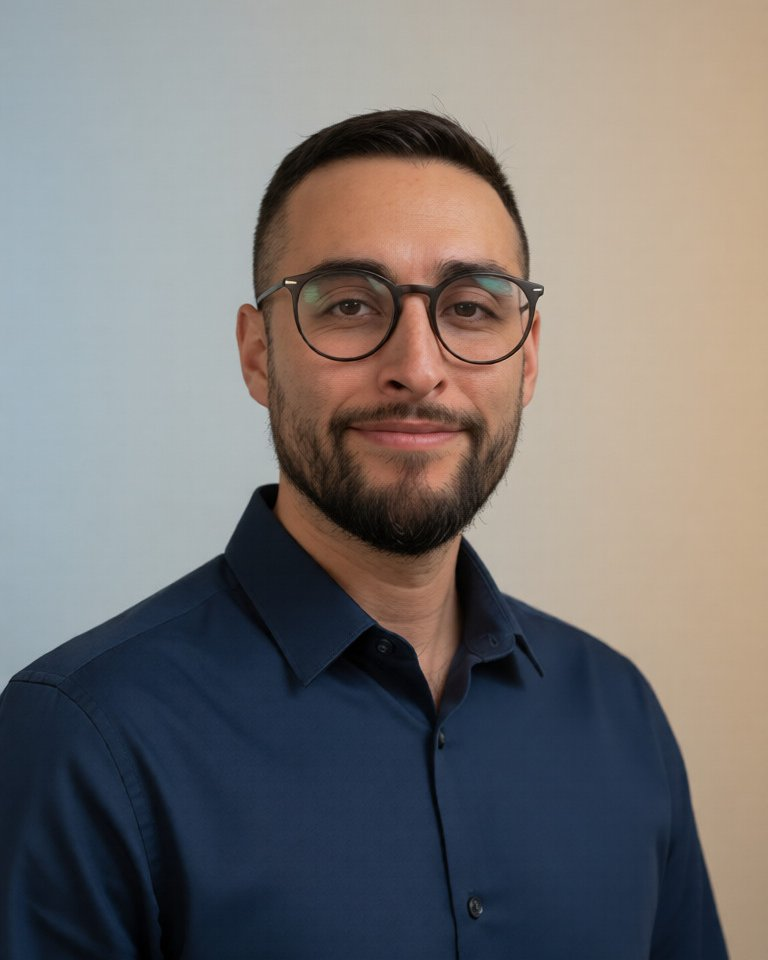
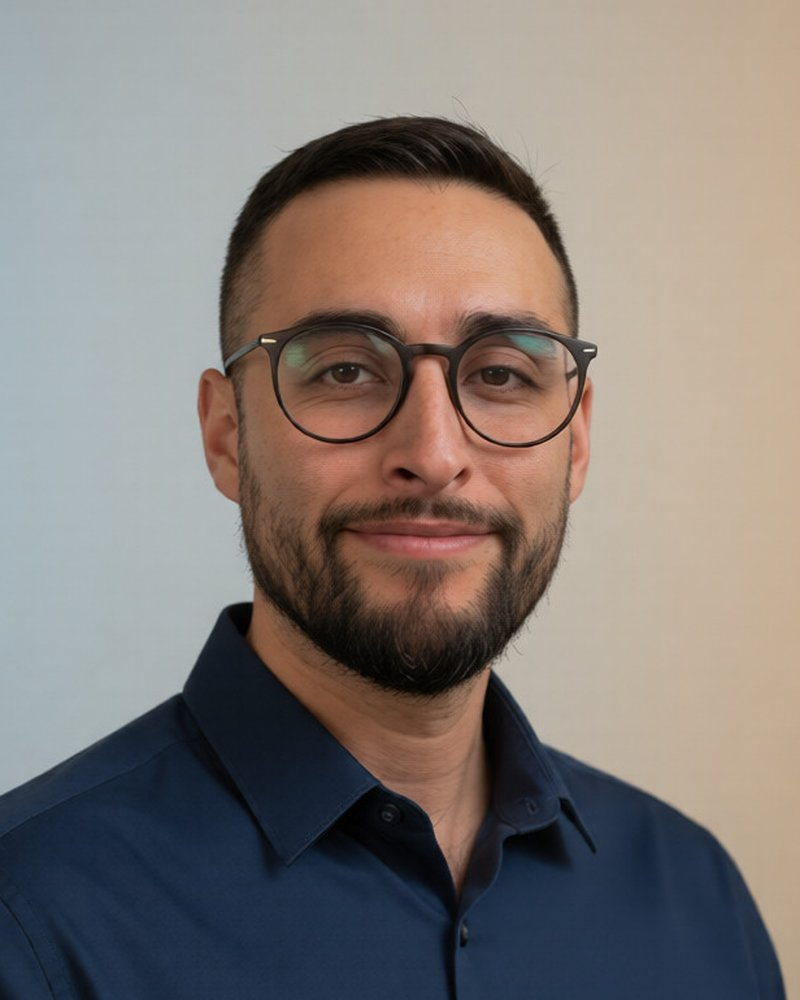
Add photos to About page and homepage
About: professional headshot replaces the old profile photo at the top. The close-up in the suit and bow tie now sits next to “Why I do this work.”
Homepage: new “Hi, I’m David” section with the armchair photo and a “More about me” button.
All photos cropped to a matching portrait shape and compressed for the web.
Sized for each screen: beside the text on iPad and desktop, centered and smaller on phones.
Stylesheet version updated so browsers load the new styles.
Spanish pages (es/) rebuilt with build_es.py.

diff --git a/es/about.html b/es/about.html
@@ -21,7 +21,7 @@
             document.documentElement.setAttribute('data-theme', t);
         })();
     </script>
-    <link rel="stylesheet" href="../styles.css?v=20261021q">
+    <link rel="stylesheet" href="../styles.css?v=20261021r">
     <link rel="icon" href="../favicon.ico" sizes="any">
     <link rel="icon" type="image/png" sizes="32x32" href="../favicon-32x32.png">
     <link rel="icon" type="image/png" sizes="16x16" href="../favicon-16x16.png">
@@ -161,7 +161,7 @@
 <main class="section container">
 
     <div class="profile-card" style="margin-bottom: 3rem;">
-        <img src="../david-quintana-professional.jpg" alt="David Quintana, Notary Public, in a navy button-up shirt" class="profile-img" width="768" height="960">
+        <img src="../david-quintana-professional.jpg" alt="David Quintana, Notary Public, in a navy button-up shirt" class="profile-img" width="800" height="1000">
         
         <div class="profile-details">
             <h3 id="profile-title-es" style="text-align: left;">David Quintana</h3>

diff --git a/styles.css b/styles.css
@@ -2018,3 +2018,11 @@ html[data-theme="dark"] .shop-map .sm-road { fill: #0b0f16; }
 .mission-photo { width: 100%; max-width: 320px; aspect-ratio: 1 / 1; object-fit: cover; object-position: 50% 25%; border-radius: var(--r-lg); align-self: center; }
 .mission-text { min-width: 0; flex: 1 1 auto; }
 @media (min-width: 700px) { .mission-with-photo { flex-direction: row; align-items: flex-start; } .mission-photo { width: 240px; flex: 0 0 240px; aspect-ratio: 4 / 5; align-self: flex-start; } }
+
+/* Photos on phones: a centered portrait, not a full-width block */
+@media (max-width: 699px) {
+  .profile-img, .meet-david-img { width: min(240px, 68%); flex: 0 0 auto; aspect-ratio: 4 / 5; max-height: none; height: auto; align-self: center; margin: var(--space-5) auto 0; border-radius: var(--r-lg); object-position: 50% 35%; }
+  .meet-david-img { object-position: 50% 50%; }
+  .mission-photo { width: min(220px, 64%); aspect-ratio: 4 / 5; object-position: 50% 30%; }
+  .meet-david-text { padding: 0 var(--space-5) var(--space-5); }
+}

diff --git a/about.html b/about.html
@@ -36,7 +36,7 @@
             document.documentElement.setAttribute('data-theme', t);
         })();
     </script>
-    <link rel="stylesheet" href="styles.css?v=20261021q">
+    <link rel="stylesheet" href="styles.css?v=20261021r">
     <link rel="icon" href="favicon.ico" sizes="any">
     <link rel="icon" type="image/png" sizes="32x32" href="favicon-32x32.png">
     <link rel="icon" type="image/png" sizes="16x16" href="favicon-16x16.png">
@@ -176,7 +176,7 @@
 <main class="section container">
 
     <div class="profile-card" style="margin-bottom: 3rem;">
-        <img src="david-quintana-professional.jpg" alt="David Quintana, Notary Public, in a navy button-up shirt" class="profile-img" width="768" height="960">
+        <img src="david-quintana-professional.jpg" alt="David Quintana, Notary Public, in a navy button-up shirt" class="profile-img" width="800" height="1000">
         
         <div class="profile-details">
             <h3 id="profile-title-es" style="display:none; text-align: left;">David Quintana</h3>

diff --git a/es/apostille.html b/es/apostille.html
@@ -162,7 +162,7 @@
             document.documentElement.setAttribute('data-theme', t);
         })();
     </script>
-    <link rel="stylesheet" href="../styles.css?v=20261021q">
+    <link rel="stylesheet" href="../styles.css?v=20261021r">
     <link rel="icon" href="../favicon.ico" sizes="any">
     <link rel="icon" type="image/png" sizes="32x32" href="../favicon-32x32.png">
     <link rel="icon" type="image/png" sizes="16x16" href="../favicon-16x16.png">

diff --git a/es/certified-copies.html b/es/certified-copies.html
@@ -168,7 +168,7 @@
             document.documentElement.setAttribute('data-theme', t);
         })();
     </script>
-    <link rel="stylesheet" href="../styles.css?v=20261021q">
+    <link rel="stylesheet" href="../styles.css?v=20261021r">
     <link rel="icon" href="../favicon.ico" sizes="any">
     <link rel="icon" type="image/png" sizes="32x32" href="../favicon-32x32.png">
     <link rel="icon" type="image/png" sizes="16x16" href="../favicon-16x16.png">

diff --git a/es/immigration-attorney-notary-aurora-ice.html b/es/immigration-attorney-notary-aurora-ice.html
@@ -189,7 +189,7 @@
             document.documentElement.setAttribute('data-theme', t);
         })();
     </script>
-    <link rel="stylesheet" href="../styles.css?v=20261021q">
+    <link rel="stylesheet" href="../styles.css?v=20261021r">
     <link rel="icon" href="../favicon.ico" sizes="any">
     <link rel="icon" type="image/png" sizes="32x32" href="../favicon-32x32.png">
     <link rel="icon" type="image/png" sizes="16x16" href="../favicon-16x16.png">

diff --git a/es/airport-notarizations.html b/es/airport-notarizations.html
@@ -96,7 +96,7 @@
             document.documentElement.setAttribute('data-theme', t);
         })();
     </script>
-    <link rel="stylesheet" href="../styles.css?v=20261021q">
+    <link rel="stylesheet" href="../styles.css?v=20261021r">
     <link rel="icon" href="../favicon.ico" sizes="any">
     <link rel="icon" type="image/png" sizes="32x32" href="../favicon-32x32.png">
     <link rel="icon" type="image/png" sizes="16x16" href="../favicon-16x16.png">

diff --git a/es/b2b-real-estate.html b/es/b2b-real-estate.html
@@ -22,7 +22,7 @@
             document.documentElement.setAttribute('data-theme', t);
         })();
     </script>
-    <link rel="stylesheet" href="../styles.css?v=20261021q">
+    <link rel="stylesheet" href="../styles.css?v=20261021r">
     <link rel="icon" href="../favicon.ico" sizes="any">
     <link rel="icon" type="image/png" sizes="32x32" href="../favicon-32x32.png">
     <link rel="icon" type="image/png" sizes="16x16" href="../favicon-16x16.png">

diff --git a/es/contact.html b/es/contact.html
@@ -21,7 +21,7 @@
             document.documentElement.setAttribute('data-theme', t);
         })();
     </script>
-    <link rel="stylesheet" href="../styles.css?v=20261021q">
+    <link rel="stylesheet" href="../styles.css?v=20261021r">
     <link rel="icon" href="../favicon.ico" sizes="any">
     <link rel="icon" type="image/png" sizes="32x32" href="../favicon-32x32.png">
     <link rel="icon" type="image/png" sizes="16x16" href="../favicon-16x16.png">

diff --git a/es/faq.html b/es/faq.html
@@ -21,7 +21,7 @@
             document.documentElement.setAttribute('data-theme', t);
         })();
     </script>
-    <link rel="stylesheet" href="../styles.css?v=20261021q">
+    <link rel="stylesheet" href="../styles.css?v=20261021r">
     <link rel="icon" href="../favicon.ico" sizes="any">
     <link rel="icon" type="image/png" sizes="32x32" href="../favicon-32x32.png">
     <link rel="icon" type="image/png" sizes="16x16" href="../favicon-16x16.png">

diff --git a/es/index.html b/es/index.html
@@ -21,7 +21,7 @@
             document.documentElement.setAttribute('data-theme', t);
         })();
     </script>
-    <link rel="stylesheet" href="../styles.css?v=20261021q">
+    <link rel="stylesheet" href="../styles.css?v=20261021r">
     <link rel="icon" href="../favicon.ico" sizes="any">
     <link rel="icon" type="image/png" sizes="32x32" href="../favicon-32x32.png">
     <link rel="icon" type="image/png" sizes="16x16" href="../favicon-16x16.png">

diff --git a/es/pricing.html b/es/pricing.html
@@ -21,7 +21,7 @@
             document.documentElement.setAttribute('data-theme', t);
         })();
     </script>
-    <link rel="stylesheet" href="../styles.css?v=20261021q">
+    <link rel="stylesheet" href="../styles.css?v=20261021r">
     <link rel="icon" href="../favicon.ico" sizes="any">
     <link rel="icon" type="image/png" sizes="32x32" href="../favicon-32x32.png">
     <link rel="icon" type="image/png" sizes="16x16" href="../favicon-16x16.png">
